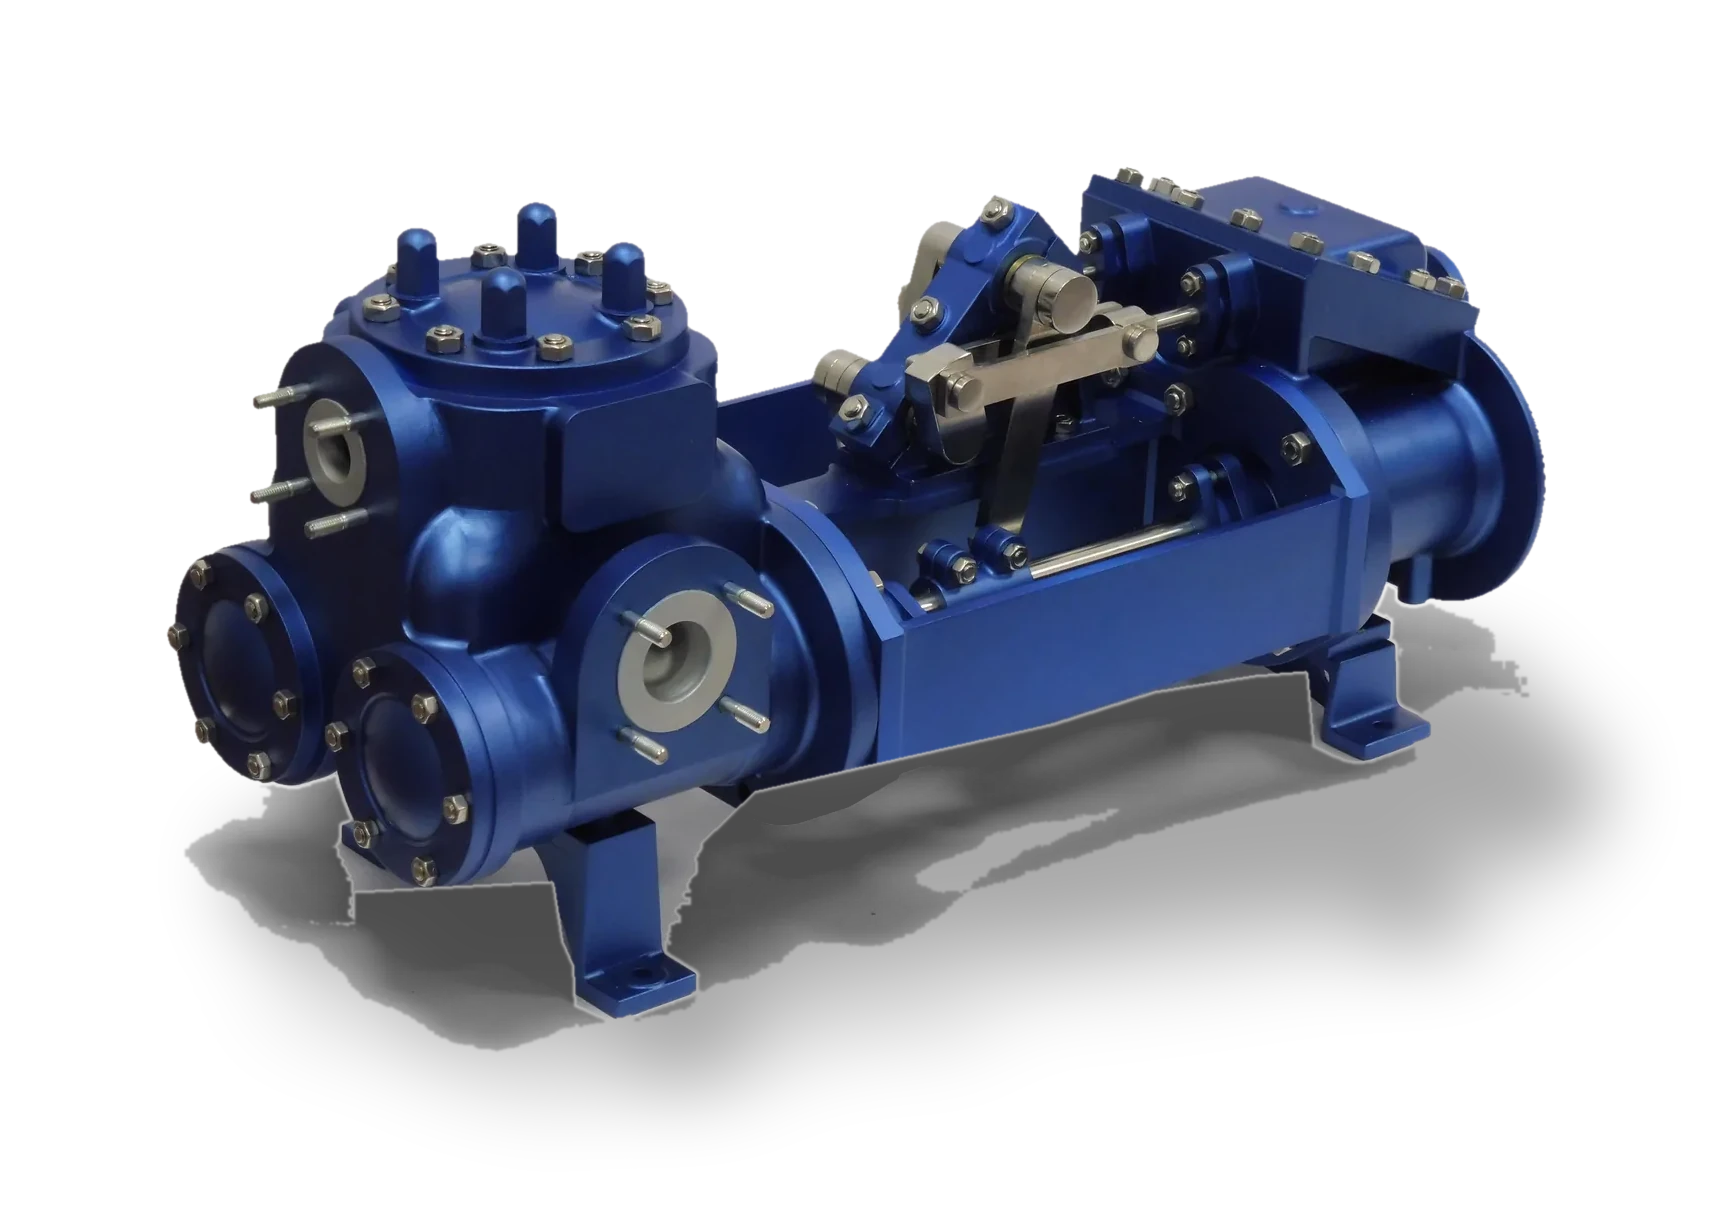
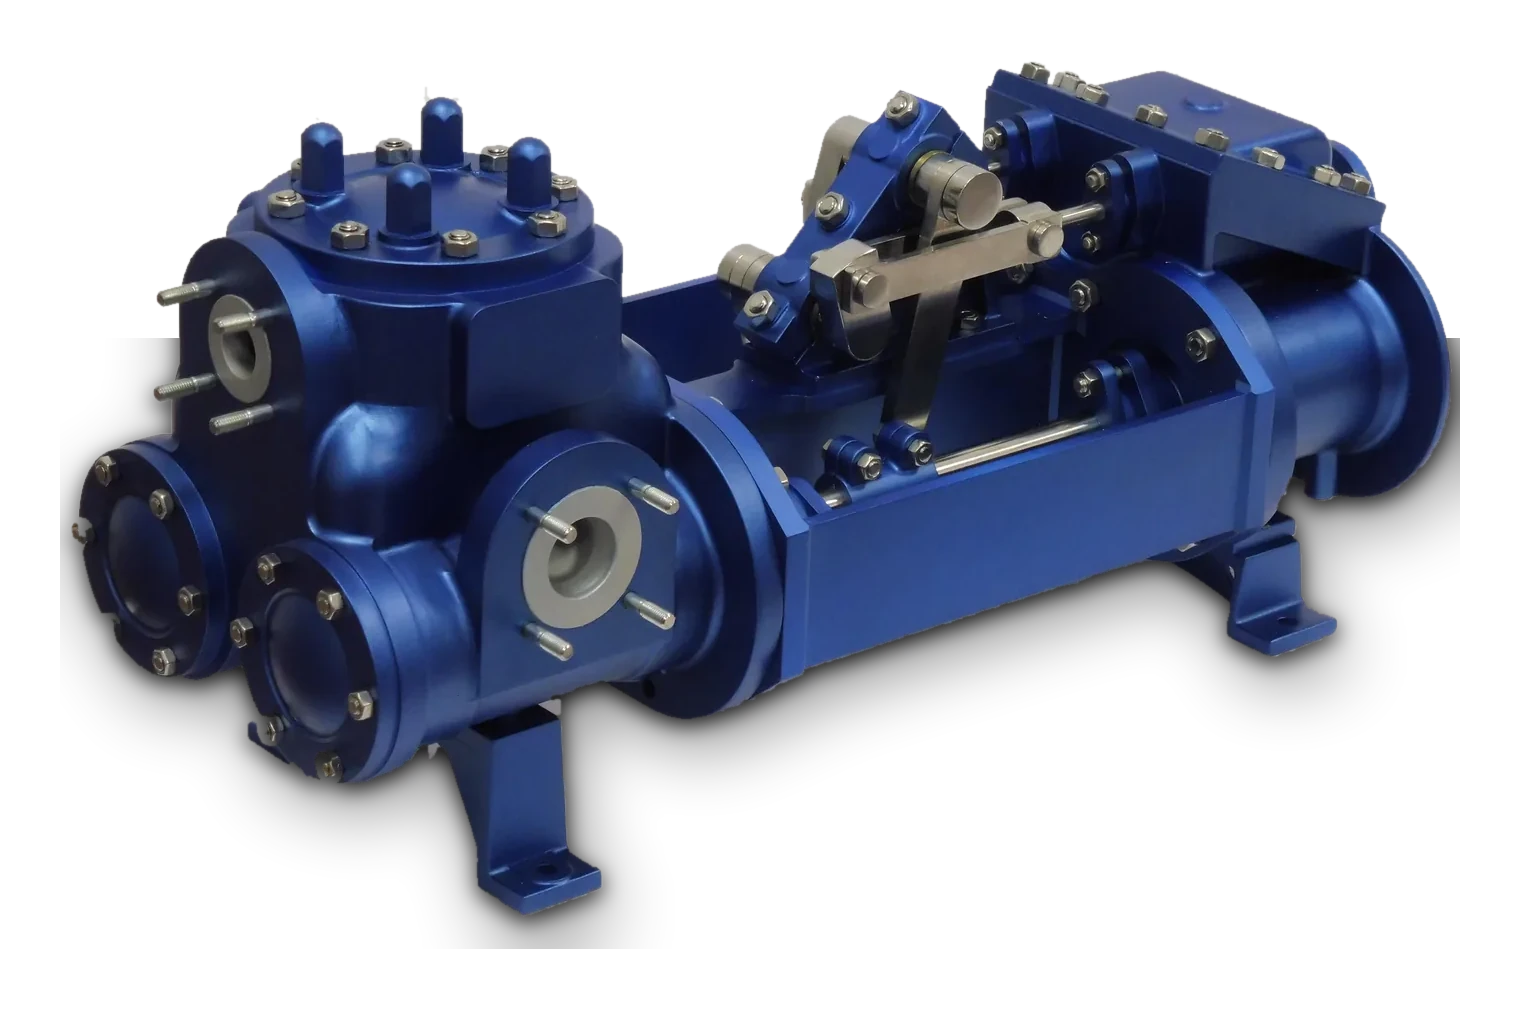
eurospray: clean hero matte along the bottom of the pump (floor greys removed, flange bolts kept, soft synthetic contact shadow)
Claude-Session: https://claude.ai/code/session_014388NDCZWMFCmqvfRGJyuJ

diff --git a/_kit/src/eurospray.src.html b/_kit/src/eurospray.src.html
@@ -1438,7 +1438,7 @@ function news(){return '<ul class="nws news-l">'+NEWS.map(function(n){
 function vHome(){
   return ''+
   '<section class="hero" id="hero" data-field data-theme="dark">'+
-   '<div class="hero-ph"><figure data-r><img src="hero-cut.webp" width="1713" height="1219" alt="A model pump machined from ABS and painted blue by Eurospray" decoding="async" fetchpriority="high"></figure></div>'+
+   '<div class="hero-ph"><figure data-r><img src="hero-cut.webp" width="1520" height="1009" alt="A model pump machined from ABS and painted blue by Eurospray" decoding="async" fetchpriority="high"></figure></div>'+
    '<span class="lab eyebrow" data-r>Sub-contract paint finishing<span class="nomob"> · Glenrothes, Fife</span></span>'+
    '<h1 class="d1 hero-h" id="pageTitle" tabindex="-1"><span class="l"><span class="nw">Total component</span></span> <span class="l"><span class="nw">finishing,</span> <span class="nw">since 1998.</span></span></h1>'+
    '<div class="hero-foot"><p class="s" data-r>One of the UK’s largest sub-contract paint finishers: wet painting in 15 purpose-built booths, two powder coating lines, refurbishment, and screen and pad printing, for OEMs in rail, defence, aerospace, electronics, automotive and medical.</p>'+

diff --git a/eurospray/index.html b/eurospray/index.html
@@ -2003,7 +2003,7 @@ function news(){return '<ul class="nws news-l">'+NEWS.map(function(n){
 function vHome(){
   return ''+
   '<section class="hero" id="hero" data-field data-theme="dark">'+
-   '<div class="hero-ph"><figure data-r><img src="hero-cut.webp" width="1713" height="1219" alt="A model pump machined from ABS and painted blue by Eurospray" decoding="async" fetchpriority="high"></figure></div>'+
+   '<div class="hero-ph"><figure data-r><img src="hero-cut.webp" width="1520" height="1009" alt="A model pump machined from ABS and painted blue by Eurospray" decoding="async" fetchpriority="high"></figure></div>'+
    '<span class="lab eyebrow" data-r>Sub-contract paint finishing<span class="nomob"> · Glenrothes, Fife</span></span>'+
    '<h1 class="d1 hero-h" id="pageTitle" tabindex="-1"><span class="l"><span class="nw">Total component</span></span> <span class="l"><span class="nw">finishing,</span> <span class="nw">since 1998.</span></span></h1>'+
    '<div class="hero-foot"><p class="s" data-r>One of the UK’s largest sub-contract paint finishers: wet painting in 15 purpose-built booths, two powder coating lines, refurbishment, and screen and pad printing, for OEMs in rail, defence, aerospace, electronics, automotive and medical.</p>'+

diff --git a/_kit/home/eurospray/views.js b/_kit/home/eurospray/views.js
@@ -10,7 +10,7 @@ function news(){return '<ul class="nws news-l">'+NEWS.map(function(n){
 function vHome(){
   return ''+
   '<section class="hero" id="hero" data-field data-theme="dark">'+
-   '<div class="hero-ph"><figure data-r><img src="hero-cut.webp" width="1713" height="1219" alt="A model pump machined from ABS and painted blue by Eurospray" decoding="async" fetchpriority="high"></figure></div>'+
+   '<div class="hero-ph"><figure data-r><img src="hero-cut.webp" width="1520" height="1009" alt="A model pump machined from ABS and painted blue by Eurospray" decoding="async" fetchpriority="high"></figure></div>'+
    '<span class="lab eyebrow" data-r>Sub-contract paint finishing<span class="nomob"> · Glenrothes, Fife</span></span>'+
    '<h1 class="d1 hero-h" id="pageTitle" tabindex="-1"><span class="l"><span class="nw">Total component</span></span> <span class="l"><span class="nw">finishing,</span> <span class="nw">since 1998.</span></span></h1>'+
    '<div class="hero-foot"><p class="s" data-r>One of the UK’s largest sub-contract paint finishers: wet painting in 15 purpose-built booths, two powder coating lines, refurbishment, and screen and pad printing, for OEMs in rail, defence, aerospace, electronics, automotive and medical.</p>'+

diff --git a/_kit/home/eurospray/hero_cut.py b/_kit/home/eurospray/hero_cut.py
@@ -1,0 +1,46 @@
+# Matte for Eurospray's own photo of a blue-painted pump body on a white sweep (eurospray.net gallery).
+# Upper part: distance from the white ground. Lower part (the grey floor and its shadow): the pump is saturated blue, so every
+# neutral pixel connected to the floor is ground; neutral parts enclosed by blue (bolts, studs, the bore insert) stay.
+# The photo's own ragged floor shadow is replaced by a soft synthetic contact shadow. Usage: python3 hero_cut.py out.webp [preview.jpg]
+import sys, numpy as np
+from PIL import Image, ImageFilter
+from scipy import ndimage as nd
+src=Image.open('g-pump.src.webp').convert('RGB'); A=np.asarray(src).astype(float); H,W=A.shape[:2]
+R,G,B=A[...,0],A[...,1],A[...,2]
+bg=np.array([236,236,236.]); far=np.sqrt(((A-bg)**2).sum(-1))>34
+L=A.mean(-1)
+yy=np.arange(H)[:,None]*np.ones((1,W))
+# 1. flood matte: ground = pixels near the white sweep that connect to the image border
+near=~far; lb,n=nd.label(near); e=np.unique(np.concatenate([lb[0],lb[-1],lb[:,0],lb[:,-1]])); ground=np.isin(lb,e[e>0])
+obj=~ground
+# 2. floor zone only (below the pump body): mid-grey floor and shadow pixels connected to the ground are ground too
+neu=((np.abs(B-R)<20)&(np.abs(B-G)<18)&(L>62))|ground
+lab,n=nd.label(neu); e=np.unique(np.concatenate([lab[0],lab[-1],lab[:,0],lab[:,-1]])); ext=np.isin(lab,e[e>0])
+xx=np.arange(W)[None,:]*np.ones((H,1))
+floorzone=(yy>560)|((xx>900)&(yy>380))
+# a grey pixel with blue on both sides (above and below, or left and right, within 22 px) is a bolt on a flange, not floor
+bl0=((B-np.maximum(R,G))>18).astype(np.uint8); k=22
+up=nd.maximum_filter1d(bl0,k,axis=0,origin=k//2-1)>0; dn=nd.maximum_filter1d(bl0,k,axis=0,origin=-(k//2))>0
+lf=nd.maximum_filter1d(bl0,k,axis=1,origin=k//2-1)>0; rt=nd.maximum_filter1d(bl0,k,axis=1,origin=-(k//2))>0
+sandwich=((up&dn)|(lf&rt))&(np.arange(W)[None,:]<900)
+obj=obj&~(ext&floorzone&~sandwich)
+obj=nd.binary_opening(obj,iterations=1)
+bl=(B-np.maximum(R,G))>18
+lab2,n2=nd.label(obj); idx=range(1,n2+1); sizes=np.array(nd.sum(obj,lab2,idx)); blu=np.array(nd.sum(bl,lab2,idx))
+good=[i+1 for i in range(n2) if sizes[i]>800 and blu[i]/sizes[i]>0.25]; obj=np.isin(lab2,good)
+obj=nd.binary_fill_holes(obj)
+a=Image.fromarray((obj*255).astype(np.uint8)).filter(ImageFilter.MinFilter(3)).filter(ImageFilter.GaussianBlur(0.8))
+a=np.asarray(a).astype(float)/255
+# soft contact shadow under the footprint
+fp=Image.fromarray((obj*255).astype(np.uint8))
+sh1=np.asarray(fp.transform(fp.size,Image.AFFINE,(1,0,0,0,1,-6)).filter(ImageFilter.GaussianBlur(10))).astype(float)/255
+sh2=np.asarray(fp.transform(fp.size,Image.AFFINE,(1,0,-10,0,1,-26)).filter(ImageFilter.GaussianBlur(34))).astype(float)/255
+sh=np.clip(0.55*sh1+0.45*sh2,0,0.85)*(yy>380)
+out=np.zeros((H,W,4)); out[...,:3]=A*a[...,None]/np.maximum(a[...,None],1e-6)*(a[...,None]>0)
+al=a+sh*(1-a); col=np.where(al[...,None]>0,(A*a[...,None])/np.maximum(al[...,None],1e-6),0)
+o=Image.fromarray(np.dstack([np.clip(col,0,255),al*255]).astype(np.uint8),'RGBA')
+bb=o.getbbox(); print('bbox',bb); o=o.crop(bb); pad=60
+o2=Image.new('RGBA',(o.width+2*pad,o.height+2*pad),(0,0,0,0)); o2.paste(o,(pad,pad))
+o2.save(sys.argv[1],quality=90,method=6); print(o2.size)
+if len(sys.argv)>2:
+  bgc=Image.new('RGBA',o2.size,(14,23,36,255)); bgc.alpha_composite(o2); bgc.convert('RGB').save(sys.argv[2])
